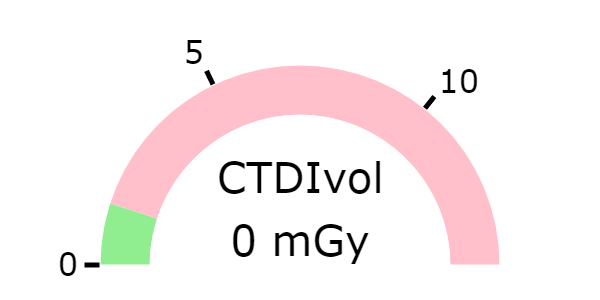
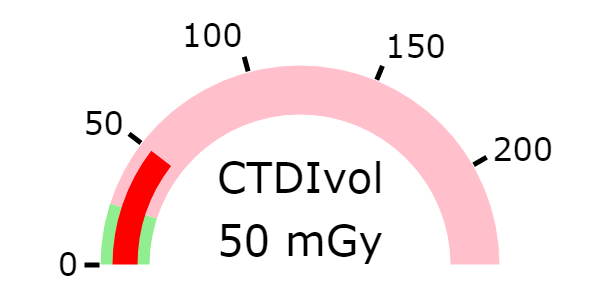
started case_tracker

diff --git a/main.py b/main.py
@@ -1,79 +1,89 @@
 import streamlit as st
+import pandas as pd
 from modules.utils import dose_gauge_plot
 from modules.app_components import sidebar, europe_data_input, us_data_input, system_parameters_input, recommendations
 
 st.set_page_config(page_title='CT-Dose-Check', page_icon='static/mgh_logo.png', layout='wide')
 st.title('CT Dose Check')
 
+# -----| Initialize Session Variables |-----
 if 'disclaimer_accepted' not in st.session_state:
     st.session_state['disclaimer_accepted'] = False
 
 if 'ret' not in st.session_state:
     st.session_state['ret'] = None
 
-# if not st.session_state['disclaimer_accepted']: 
-#     st.info('''
-#             Most diagnostic reference levels (DRLs) are estimated for a specific cohort of patients undergoing typical
-#             CT protocols. Therefore, DRLs should not be used for individual patients or as dose limits. However, DRLs
-#             are essential for radiation dose optimization. Rather than the DRLs, users must use their facility’s
-#             median dose values (typical values), representative of their CT equipment and patient population, for
-#             checking individual patients. The current tool provides an example of optimizing CT radiation dose and
-#             protocols on a national or international level. For local or facility-based dose optimization, it is essential
-#             to use the median local/facility doses (Typical values).
-#             ''')
+if 'doses' not in st.session_state:
+    st.session_state['doses'] = None
+
+st.session_state['database'] = pd.read_csv('database.csv')
+database = st.session_state['database']
+# ----- ----- ----- ----- -----
+
+if not st.session_state['disclaimer_accepted']: 
+    st.info('''
+            Most diagnostic reference levels (DRLs) are estimated for a specific cohort of patients undergoing typical
+            CT protocols. Therefore, DRLs should not be used for individual patients or as dose limits. However, DRLs
+            are essential for radiation dose optimization. Rather than the DRLs, users must use their facility’s
+            median dose values (typical values), representative of their CT equipment and patient population, for
+            checking individual patients. The current tool provides an example of optimizing CT radiation dose and
+            protocols on a national or international level. For local or facility-based dose optimization, it is essential
+            to use the median local/facility doses (Typical values).
+            ''')
     
-#     if st.button('Accept Disclaimer'): 
-#         st.session_state['disclaimer_accepted'] = True
-#         st.rerun()
+    if st.button('Accept Disclaimer'): 
+        st.session_state['disclaimer_accepted'] = True
+        st.rerun()
 
-# else:
-ref_country = sidebar()
+else:
+    ref_country = sidebar()
 
-col1, col2 = st.columns(2)
-with col1:
-    if (ref_country == 'Europe'):
-        ret = europe_data_input()
-
-        if ret != st.session_state['ret']:
-            st.session_state['submitted'] = False
-
+    col1, col2 = st.columns(2)
+    with col1:
+        ret = europe_data_input() if (ref_country == 'Europe') else us_data_input()
         a, b = ret[0], ret[1]
         ref_ctdivol, ref_dlp = ret[-2], ret[-1]
         ctdivol, dlp = system_parameters_input(ref_ctdivol, ref_dlp)
-    else:
-        ret = us_data_input()
-        a, b = ret[0], ret[1]
-        ref_ctdivol, ref_dlp = ret[-2], ret[-1]
-        ret2 = system_parameters_input(ref_ctdivol, ref_dlp)
-        ctdivol, dlp = ret2[0], ret2[1]
 
-    submit = st.button('Get Recommendation')
+        # detect if changes have been made since last submit
+        if ret != st.session_state['ret']:
+            st.session_state['submitted'] = False
 
-    if submit: 
-        st.session_state['ret'] = ret
-        st.session_state['submitted'] = True
+        if (ctdivol, dlp) != st.session_state['doses']:
+            st.session_state['submitted'] = False
 
-if st.session_state['submitted']:
-    with col2: 
-        with st.container(border=True):
-            st.subheader('**Recommendation**')
-            
-            inner_col1, inner_col2 = st.columns(2)
-            with inner_col1:
-                if (ref_ctdivol != '-'):
-                    dose_gauge_plot(ref_ctdivol, ctdivol, 'CTDIvol')
-                    st.image('static/CTDIvol_gauge.png')
+        if  st.button('Get Recommendation'):
+            st.session_state['ret'] = ret
+            st.session_state['doses'] = (ctdivol, dlp)
+            st.session_state['submitted'] = True
+            st.session_state['stored'] = False
+
+    if st.session_state['submitted']:
+        with col2: 
+            with st.container(border=True):
+                st.subheader('**Recommendation**')
+                
+                inner_col1, inner_col2 = st.columns(2)
+                with inner_col1:
+                    if (ref_ctdivol != '-'):
+                        dose_gauge_plot(ref_ctdivol, ctdivol, 'CTDIvol')
+                        st.image('static/CTDIvol_gauge.png')
+                    else:
+                        st.info('CTDIvol DRL values are unavailable.')
+                with inner_col2:
+                    if (ref_dlp != '-'):
+                        dose_gauge_plot(ref_dlp, dlp, 'DLP')
+                        st.image('static/DLP_gauge.png')
+                    else: 
+                        st.info('DLP DRL values are unavailable.')
+
+                recommendations(ref_ctdivol, ref_dlp, ctdivol, dlp, a, b)
+
+                if not st.session_state['stored']:
+                    if st.button('Store in database'):
+                        st.session_state['stored'] = True
+                        st.rerun()
                 else:
-                    st.info('CTDIvol DRL values are unavailable.')
-            with inner_col2:
-                if (ref_dlp != '-'):
-                    dose_gauge_plot(ref_dlp, dlp, 'DLP')
-                    st.image('static/DLP_gauge.png')
-                else: 
-                    st.info('DLP DRL values are unavailable.')
-
-            recommendations(ref_ctdivol, ref_dlp, ctdivol, dlp, a, b)
-
-            if st.button('Store in database'):
-                st.session_state['submitted'] = False
-                st.rerun()
+                    st.write(ret)
+                    database.loc[len(database)] = ret[:-2] + st.session_state['doses']
+                    database.to_csv('database.csv', index=False)

diff --git a/modules/app_components.py b/modules/app_components.py
@@ -13,6 +13,10 @@ def sidebar():
     return ref_country
 
 def europe_data_input():
+    """
+    Returns:
+    tuple: patient_type, body_region, selector, contrast usage, ctdivol, dlp
+    """
     with st.container(border=True):
         st.subheader('**Data Input**')
 
@@ -21,48 +25,54 @@ def europe_data_input():
             ('Child', 'Adult')
         )
 
+    # -----| European Pediatric DRLs  |-----    
         if (patient_type == 'Child'):
             df = load_df('europe_pediatric_drls.csv')
-            region = st.radio(
+            body_region = st.radio(
                 'Select body region:',
                 df['Region'].unique()
             )
 
-            df = df[df['Region'] == region]
-            choice = st.selectbox(
+            df = df[df['Region'] == body_region]
+            size_group = st.selectbox(
                 'Select the patient\'s age or weight group: ',
                 df['Age/Weight']
             )
-            ctdivol, dlp = retrieve_ref_doses(df, 'Age/Weight', choice)
+            ctdivol, dlp = retrieve_ref_doses(df, 'Age/Weight', size_group)
 
-            return patient_type, region, choice, ctdivol, dlp
+            return patient_type, body_region, size_group, False, ctdivol, dlp
+    # ----- ----- ----- ----- -----
 
+    # -----| European Adult Clinical-Based DRLs |-----
         elif st.checkbox('Include clinical indications?'): 
             df = load_df('europe_clinical_drls.csv')
-            region = st.radio(
+            body_region = st.radio(
                 'Select body region: ',
                 df['Region'].unique()
             )
             
-            df = df[df['Region'] == region]
+            df = df[df['Region'] == body_region]
             indication = st.selectbox(
                 'Select clinical indication: ',
                 df['Clinical Indication']
             )
             ctdivol, dlp = retrieve_ref_doses(df, 'Clinical Indication', indication)
 
-            return patient_type, indication, ctdivol, dlp
+            return patient_type, body_region, indication, False, ctdivol, dlp
+    # ----- ----- ----- ----- -----
 
+    # -----| United Kingdom Adult DRLs |-----
         else:
             df = load_df('uk_adult_drls.csv')
-            region = st.radio(
+            body_region = st.radio(
                 'Select body region: ',
                 df['Region'].unique()
             )
-            ctdivol, dlp = retrieve_ref_doses(df, 'Region', region)
+            ctdivol, dlp = retrieve_ref_doses(df, 'Region', body_region)
 
-            return patient_type, region, ctdivol, dlp
-    
+            return patient_type, body_region, 'None', False, ctdivol, dlp
+    # ----- ----- ----- ----- -----
+        
 def us_data_input():
     with st.container(border=True):
         st.subheader('**Data Input**')
@@ -163,12 +173,11 @@ def recommendations(ref_ctdivol, ref_dlp, ctdivol, dlp, patient_type, region):
     dlp_safe = compare_doses(ref_dlp, dlp, 'DLP')
 
     if not (ctdivol_safe and dlp_safe):        
-        # st.write(f'{patient_type} {region}')
         df = df[df['Category'] == f'{patient_type} {region}']
 
         if (not df.empty):
             st.info(df['Recommendation'].values[0])
         else: 
-            st.info('Unfortunately, there are no specific recommendations available for these inputs. However, please attempt to reduce dose.')
+            st.info('Unfortunately, there are no specific recommendations available for these inputs.')
     else:
         st.success('Congratulations! Your doses are below the suggested DRLs.')

diff --git a/pages/2 - case_tracker.py b/pages/2 - case_tracker.py
@@ -1,0 +1,25 @@
+import numpy as np
+import pandas as pd
+import streamlit as st
+
+df = pd.read_csv('database.csv')
+# col1, col2 = st.columns([0.8, 0.2])
+
+# for i in range(len(df)):
+#     row = df.iloc[i]
+#     with col1:
+#         st.write(row)
+
+st.data_editor(
+    df,
+    column_config = {
+        'patient_type': st.column_config.Column(
+            'Patient Type',
+            disabled=True
+        ),
+        'body_region': st.column_config.Column(
+            'Body Region',
+            disabled=True
+        )
+    }, 
+    num_rows='dynamic')
